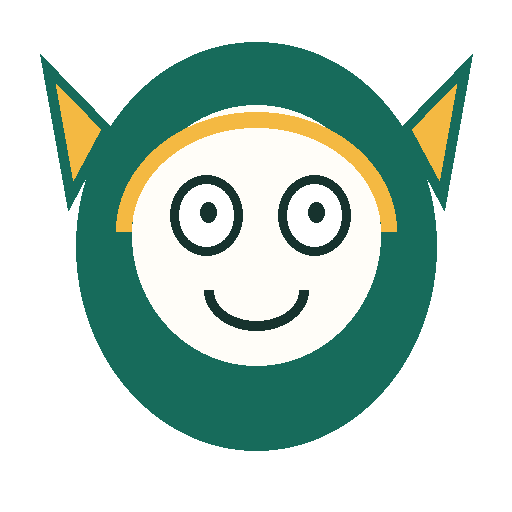
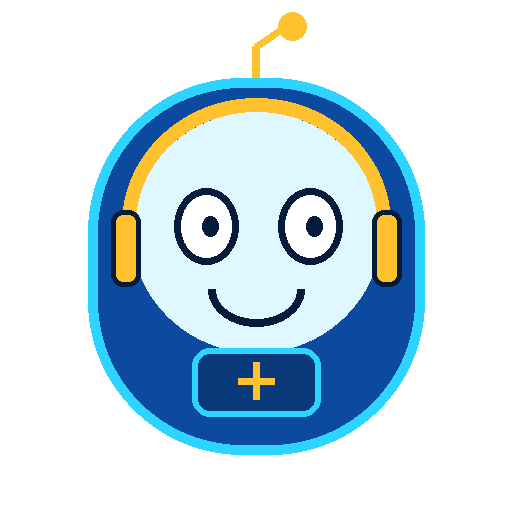
feat(ui): redesign Vaani voice experience

diff --git a/ui/styles.css b/ui/styles.css
@@ -4444,3 +4444,221 @@ tbody tr:hover { background: rgba(45, 212, 255, 0.07); }
   .bubble { max-width: 88%; }
   .chat-intro { padding: 15px 16px; }
 }
+
+/* Next UI — Vaani voice assistant */
+.voice-mode-page {
+  width: min(100%, 50rem);
+  padding: 18px 14px calc(112px + env(safe-area-inset-bottom));
+}
+.voice-mode-panel {
+  gap: 16px;
+  color: var(--text);
+  background:
+    radial-gradient(circle at 50% 28%, rgba(45, 212, 255, 0.12), transparent 22rem),
+    linear-gradient(150deg, rgba(14, 55, 111, 0.92), rgba(5, 22, 51, 0.96));
+  border-color: var(--border);
+  border-radius: 26px;
+  box-shadow: var(--shadow-md);
+}
+.voice-mode-heading {
+  grid-template-columns: 44px minmax(0, 1fr) auto;
+  gap: 10px;
+}
+.voice-mode-heading > div { min-width: 0; }
+.voice-mode-heading h1 {
+  overflow: hidden;
+  margin: 0;
+  font-size: clamp(1.42rem, 5.5vw, 2.15rem);
+  line-height: 1.15;
+  text-overflow: ellipsis;
+  white-space: nowrap;
+}
+.voice-mode-heading .eyebrow {
+  overflow: hidden;
+  color: var(--accent-2);
+  font-size: 0.72rem;
+  text-overflow: ellipsis;
+  white-space: nowrap;
+}
+.voice-back {
+  color: var(--text);
+  background: rgba(255, 255, 255, 0.06);
+  border-color: var(--border);
+}
+.voice-back:hover { color: #061a3a; background: var(--accent); border-color: var(--accent); }
+.voice-language-chip {
+  color: #061a3a;
+  background: linear-gradient(135deg, var(--accent), #ffe28a);
+  box-shadow: 0 6px 16px rgba(255, 194, 46, 0.18);
+}
+.voice-stage {
+  --mouth-scale: 1;
+  min-height: clamp(19rem, 52vh, 27rem);
+  padding: 22px 14px;
+  background:
+    radial-gradient(circle at center, rgba(45, 212, 255, 0.16), transparent 54%),
+    rgba(3, 18, 43, 0.48);
+  border: 1px solid rgba(45, 212, 255, 0.13);
+  border-radius: 24px;
+}
+.voice-stage strong {
+  color: var(--text);
+  font-family: inherit;
+  font-size: 1.25rem;
+}
+.voice-stage p { color: var(--text-muted); }
+.vaani-mascot {
+  width: min(230px, 72vw);
+  max-height: 230px;
+  filter: drop-shadow(0 20px 30px rgba(0, 8, 28, 0.38));
+}
+.vaani-body { fill: #0b4a9e; stroke: var(--accent-2); stroke-width: 5; }
+.vaani-face { fill: #dff8ff; }
+.vaani-eyes ellipse { fill: #fff; stroke: #061a3a; }
+.vaani-eyes circle { fill: #061a3a; }
+.vaani-brow, .vaani-mouth, .vaani-headset > path {
+  stroke: #061a3a;
+}
+.vaani-headset rect { fill: var(--accent); stroke: #061a3a; }
+.vaani-headset circle { fill: var(--accent-2); stroke: #061a3a; }
+.vaani-antenna path {
+  fill: none;
+  stroke: var(--accent);
+  stroke-width: 5;
+  stroke-linecap: round;
+}
+.vaani-antenna circle {
+  fill: var(--accent);
+  filter: drop-shadow(0 0 7px rgba(255, 194, 46, 0.9));
+}
+.vaani-arms path {
+  fill: none;
+  stroke: var(--accent-2);
+  stroke-width: 13;
+  stroke-linecap: round;
+}
+.vaani-arms circle { fill: var(--accent); stroke: #061a3a; stroke-width: 3; }
+.vaani-pocket path:first-child {
+  fill: rgba(45, 212, 255, 0.18);
+  stroke: var(--accent-2);
+  stroke-width: 3;
+  stroke-linejoin: round;
+}
+.vaani-pocket path:last-child {
+  fill: none;
+  stroke: var(--accent);
+  stroke-width: 3;
+  stroke-linecap: round;
+}
+.vaani-ring circle { stroke: var(--accent-2); }
+.vaani-dots circle { fill: var(--accent); }
+.vaani-name { color: var(--accent-2); font-family: inherit; }
+.voice-stage[data-state="waving"] .vaani-arm-right {
+  transform-box: fill-box;
+  transform-origin: left bottom;
+  animation: vaani-wave 650ms ease-in-out 4 alternate;
+}
+.voice-stage[data-state="listening"] .vaani-antenna circle {
+  animation: vaani-antenna-glow 800ms ease-in-out infinite alternate;
+}
+.voice-stage[data-state="listening"] .vaani-eyes ellipse { transform: scaleY(1.1); }
+.voice-stage[data-state="thinking"] .vaani-eyes {
+  transform-box: fill-box;
+  transform-origin: center;
+  animation: vaani-look 1.2s ease-in-out infinite alternate;
+}
+.voice-stage[data-state="speaking"] .vaani-antenna circle {
+  transform: scale(var(--mouth-scale));
+  transform-origin: center;
+}
+.voice-stage[data-state="error"] .vaani-float { transform: rotate(-7deg); }
+@keyframes vaani-wave {
+  to { transform: rotate(-22deg) translateY(-4px); }
+}
+@keyframes vaani-antenna-glow {
+  to { transform: scale(1.28); filter: drop-shadow(0 0 14px var(--accent)); }
+}
+@keyframes vaani-look {
+  to { transform: translateX(4px); }
+}
+
+.voice-energy-wrap {
+  display: grid;
+  width: min(230px, 78%);
+  gap: 5px;
+}
+.voice-energy-wrap > span {
+  color: var(--text-muted);
+  font-size: 0.7rem;
+  font-weight: 700;
+  letter-spacing: 0.08em;
+  text-transform: uppercase;
+}
+.voice-energy {
+  width: 100%;
+  height: 7px;
+  background: rgba(255, 255, 255, 0.1);
+  border: 1px solid rgba(171, 211, 255, 0.13);
+}
+.voice-energy span {
+  background: linear-gradient(90deg, var(--accent-2), var(--accent));
+  box-shadow: 0 0 10px rgba(45, 212, 255, 0.4);
+}
+.voice-start {
+  width: 100%;
+  min-height: 54px;
+  color: #061a3a;
+  background: linear-gradient(135deg, var(--accent), #ffe18a);
+  border-color: var(--accent);
+  font-weight: 900;
+}
+.voice-mode-controls { gap: 8px; }
+.voice-control {
+  color: var(--text);
+  background: rgba(255, 255, 255, 0.055);
+  border-color: var(--border);
+}
+.voice-control:hover, .voice-control[aria-pressed="true"] {
+  color: #061a3a;
+  background: var(--accent-2);
+  border-color: var(--accent-2);
+}
+.voice-captions > div {
+  color: var(--text);
+  background: rgba(255, 255, 255, 0.055);
+  border: 1px solid var(--border);
+}
+.voice-captions span { color: var(--accent-2); }
+.voice-privacy-copy { color: var(--text-muted); }
+
+@media (min-width: 1024px) {
+  body > main.voice-mode-page {
+    width: min(
+      calc(100vw - (2 * var(--next-gutter)) - var(--desktop-sidebar-width)),
+      50rem
+    ) !important;
+    max-width: 50rem !important;
+    min-height: calc(100dvh - 114px);
+    margin-left: calc(
+      var(--next-gutter) + var(--desktop-sidebar-width) +
+      max(
+        0px,
+        calc(50vw - var(--next-gutter) - 32.5rem)
+      )
+    ) !important;
+    padding: 28px;
+    border-radius: 0 0 28px 0;
+  }
+  .voice-mode-panel { padding: 28px; }
+}
+
+@media (max-width: 420px) {
+  .voice-mode-page { padding-inline: 10px; }
+  .voice-mode-panel { padding: 14px; border-radius: 22px; }
+  .voice-mode-heading { grid-template-columns: 42px minmax(0, 1fr) auto; gap: 8px; }
+  .voice-mode-heading h1 { font-size: 1.35rem; }
+  .voice-mode-heading .eyebrow { font-size: 0.65rem; }
+  .voice-language-chip { padding-inline: 8px; font-size: 0.8rem; }
+  .voice-stage { min-height: 18rem; }
+  .vaani-mascot { width: min(200px, 68vw); }
+}

diff --git a/ui/flows/voice-assistant.html b/ui/flows/voice-assistant.html
@@ -44,16 +44,25 @@
       <option value="">Loading children…</option>
     </select>
 
-    <div class="voice-stage" id="voiceStage" data-state="idle">
+    <div class="voice-stage" id="voiceStage" data-state="waving">
       <svg class="vaani-mascot" viewBox="0 0 240 220" role="img" aria-label="Vaani, the School Parent AI voice assistant">
         <g class="vaani-ring">
           <circle cx="120" cy="108" r="92"/>
           <circle cx="120" cy="108" r="78"/>
         </g>
         <g class="vaani-float">
-          <path class="vaani-body" d="M57 87c0-42 28-68 63-68s63 26 63 68v59c0 33-27 59-60 59h-6c-33 0-60-26-60-59V87Z"/>
-          <path class="vaani-ear" d="M65 61 40 38l5 48M175 61l25-23-5 48"/>
-          <path class="vaani-face" d="M72 91c0-30 20-48 48-48s48 18 48 48v31c0 27-21 48-48 48s-48-21-48-48V91Z"/>
+          <g class="vaani-antenna">
+            <path d="M120 39V19l13-9"/>
+            <circle cx="137" cy="8" r="8"/>
+          </g>
+          <g class="vaani-arms">
+            <path class="vaani-arm-left" d="M64 117q-32 6-36 34"/>
+            <path class="vaani-arm-right" d="M176 117q27-5 35-29"/>
+            <circle cx="27" cy="155" r="9"/>
+            <circle cx="212" cy="83" r="9"/>
+          </g>
+          <path class="vaani-body" d="M55 91c0-43 28-70 65-70s65 27 65 70v50c0 40-27 66-65 66s-65-26-65-66V91Z"/>
+          <path class="vaani-face" d="M72 91c0-31 20-49 48-49s48 18 48 49v28c0 28-21 49-48 49s-48-21-48-49V91Z"/>
           <g class="vaani-eyes">
             <ellipse cx="98" cy="103" rx="13" ry="16"/>
             <ellipse cx="142" cy="103" rx="13" ry="16"/>
@@ -69,18 +78,26 @@
             <path d="M172 130q-2 18-25 20"/>
             <circle cx="144" cy="150" r="5"/>
           </g>
+          <g class="vaani-pocket">
+            <path d="M92 171h56v27H92z"/>
+            <path d="M120 178v12M114 184h12"/>
+          </g>
           <g class="vaani-dots">
             <circle cx="104" cy="136" r="4"/>
             <circle cx="120" cy="136" r="4"/>
             <circle cx="136" cy="136" r="4"/>
           </g>
-          <path class="vaani-tail" d="M91 199 76 215l2-27"/>
         </g>
       </svg>
       <span class="vaani-name">Vaani</span>
       <strong id="voiceState">Ready when you are</strong>
       <p id="voiceHint">Tap once to start. After that, just speak naturally.</p>
-      <div class="voice-energy" aria-hidden="true"><span id="voiceEnergy"></span></div>
+      <div class="voice-energy-wrap">
+        <span>Mic level</span>
+        <div class="voice-energy" role="meter" aria-label="Microphone level" aria-valuemin="0" aria-valuemax="100">
+          <span id="voiceEnergy"></span>
+        </div>
+      </div>
     </div>
 
     <button type="button" class="primary voice-start" id="startVoice">Start voice assistant</button>
@@ -143,6 +160,7 @@
   const guardianSelect = document.getElementById("voiceGuardian");
   const languageChip = document.getElementById("detectedLanguage");
   const energyBar = document.getElementById("voiceEnergy");
+  const energyMeter = energyBar.parentElement;
   const errorBox = document.getElementById("voiceError");
   const errorText = document.getElementById("voiceErrorText");
 
@@ -256,7 +274,9 @@
 
   function monitorLevel() {
     const level = rmsLevel();
-    energyBar.style.width = `${Math.min(100, level * 900)}%`;
+    const meterValue = Math.round(Math.min(100, level * 900));
+    energyBar.style.width = `${meterValue}%`;
+    energyMeter.setAttribute("aria-valuenow", String(meterValue));
     stage.style.setProperty("--mouth-scale", String(Math.min(2.6, 0.7 + level * 15)));
     const now = performance.now();
     if (mode === "listening" && !muted) {
